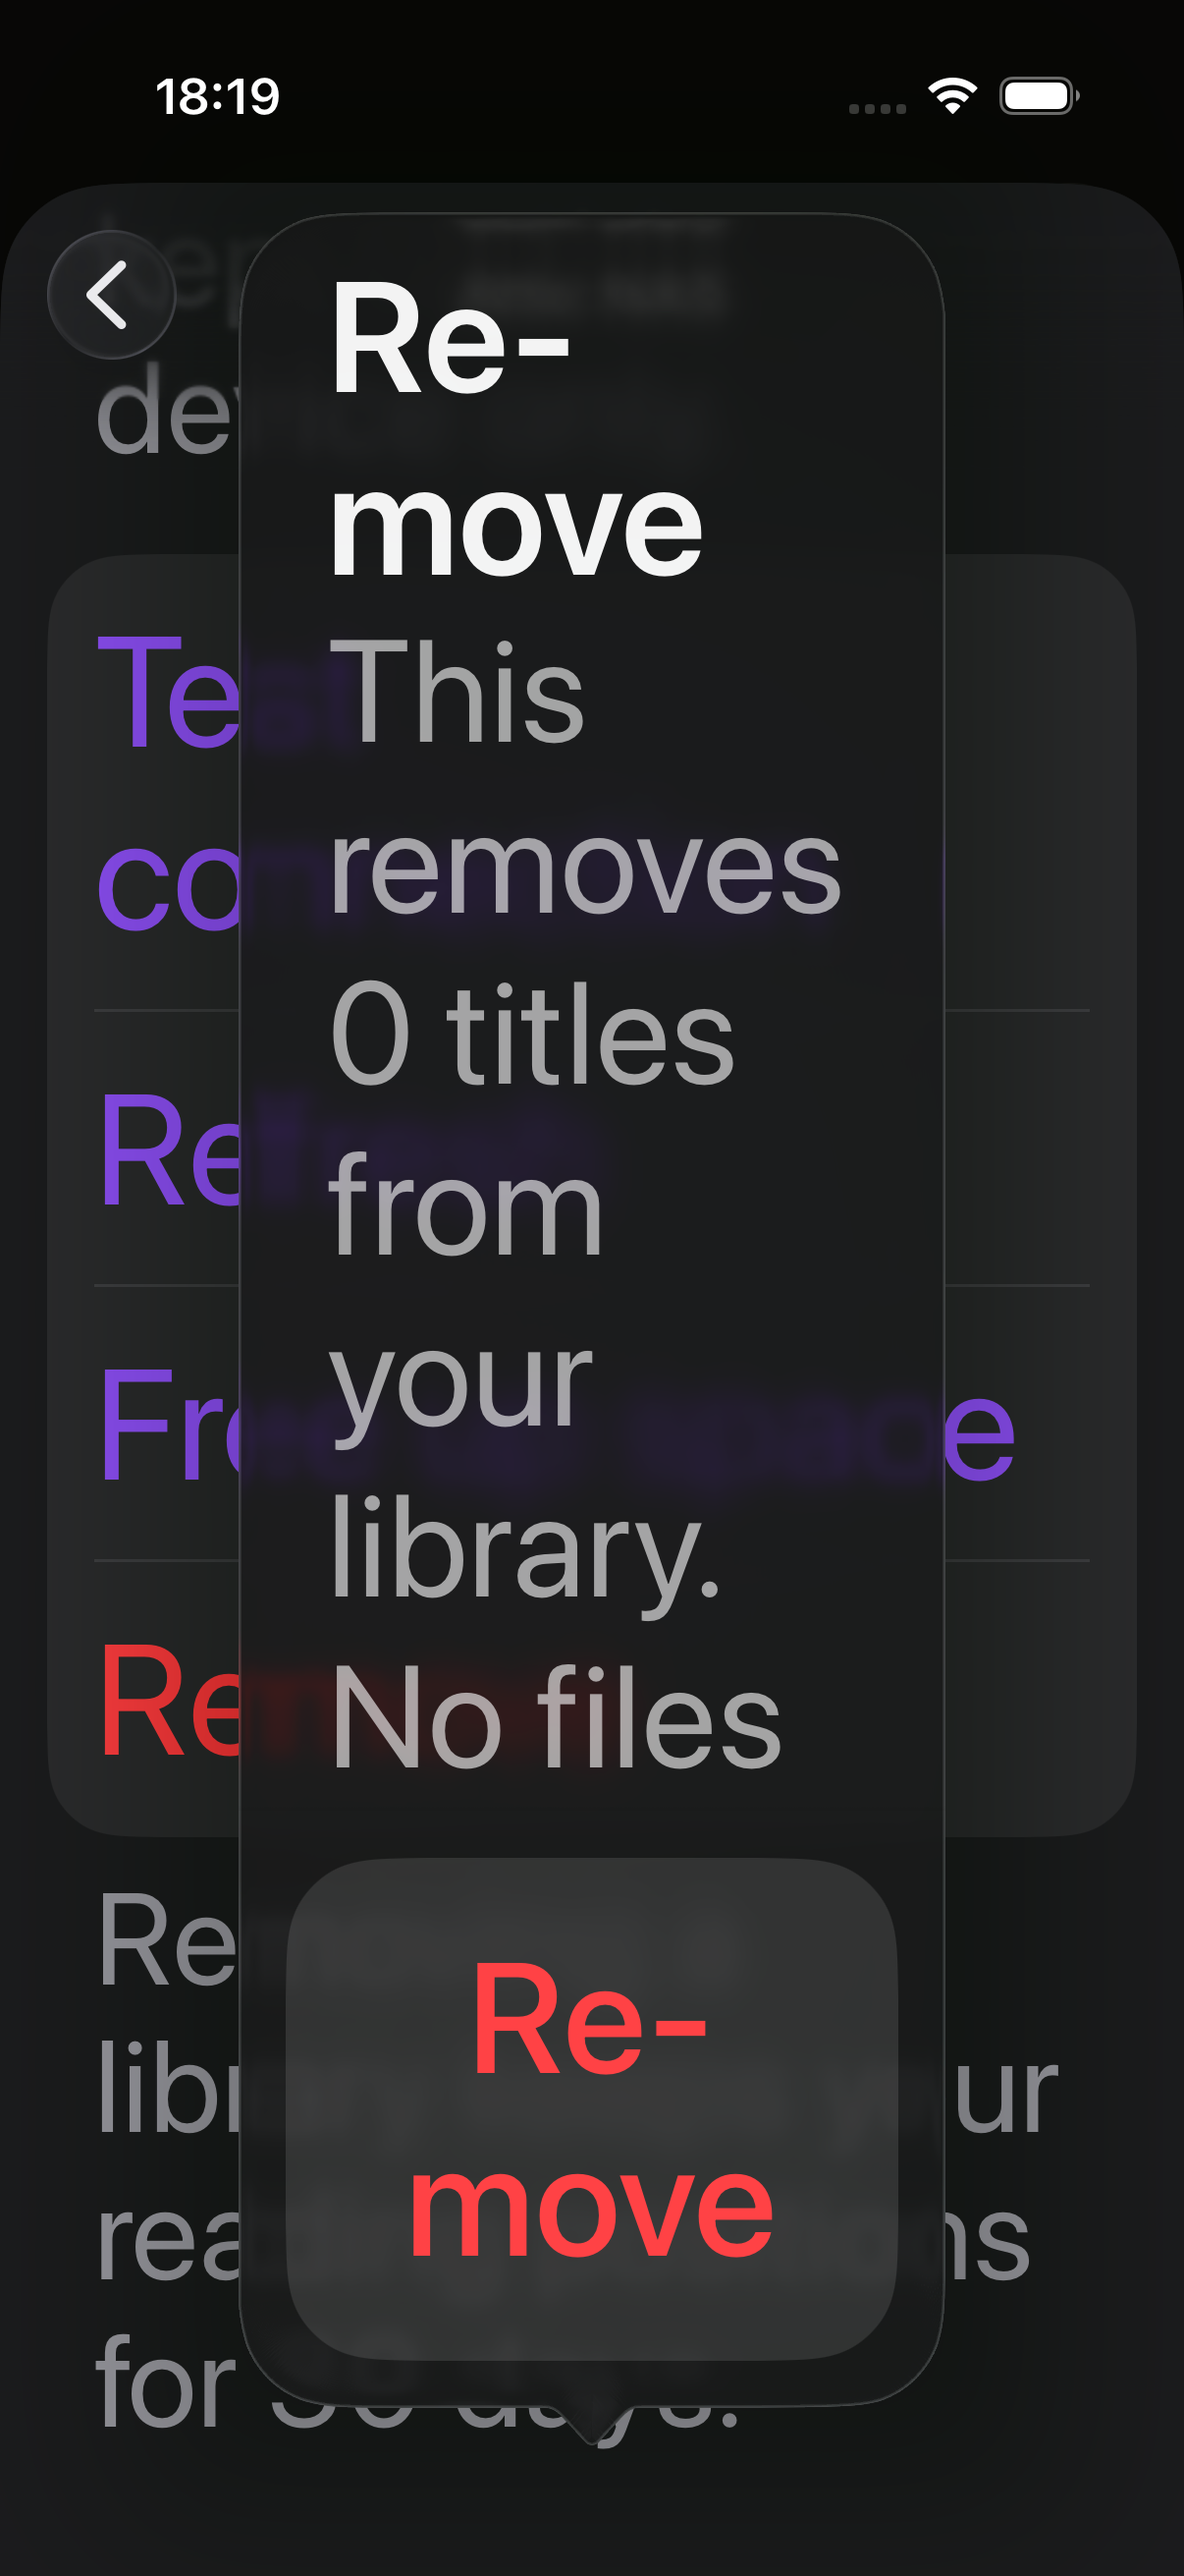
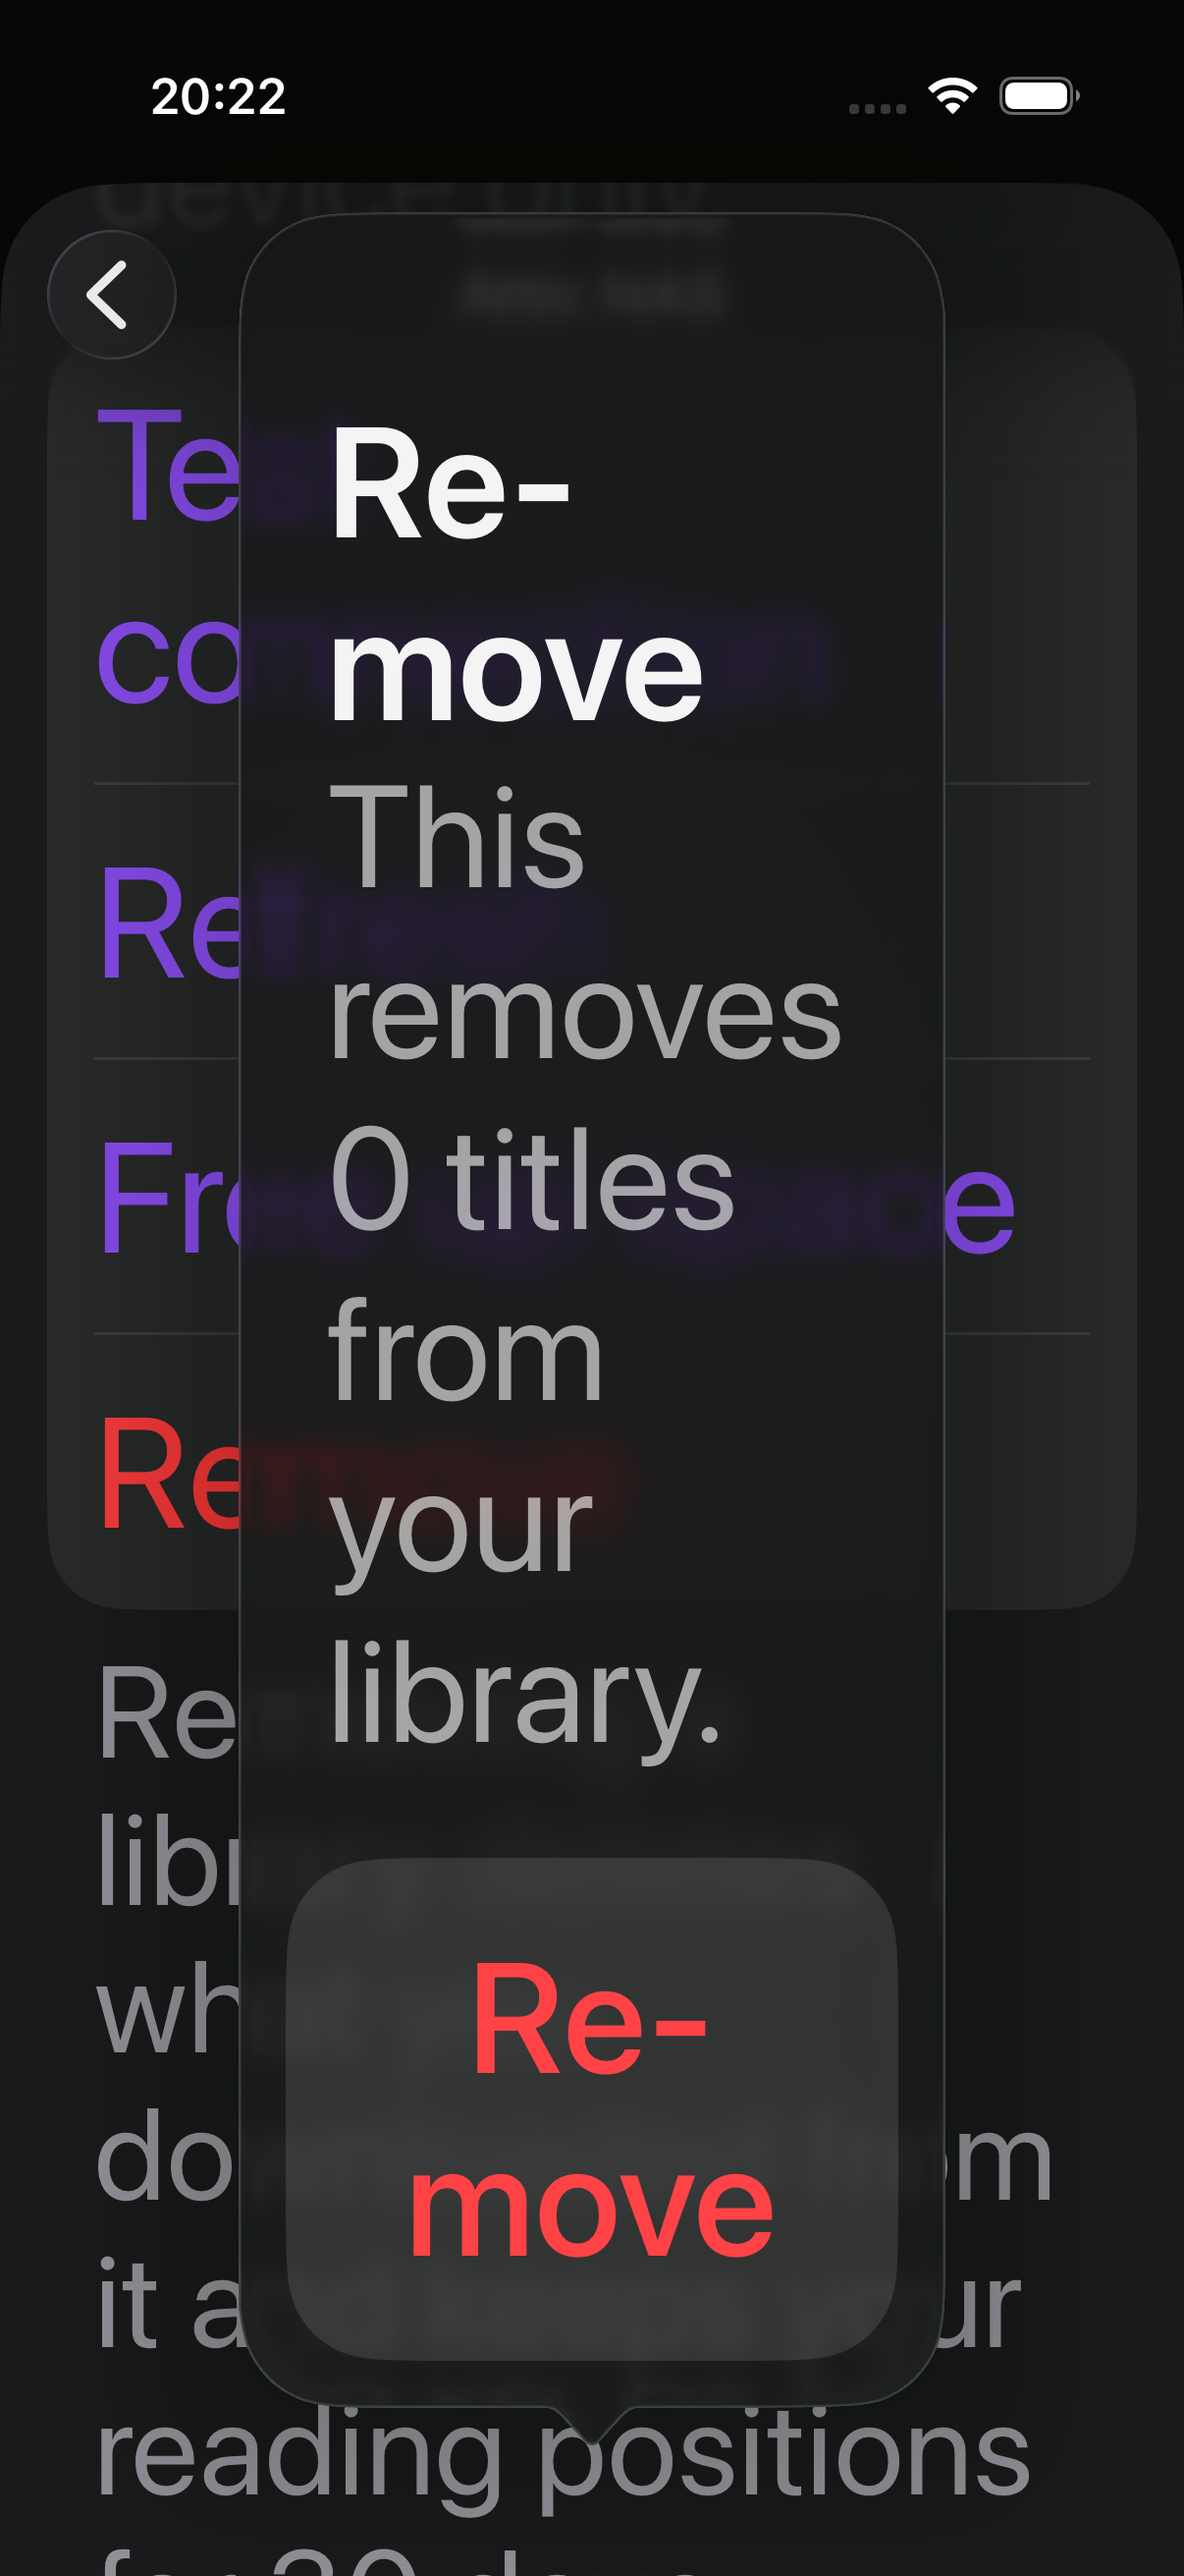
docs(docs): the removal frames retaken with the body that says what goes; android's is a rendering

diff --git a/docs/designs/screenshots/source-lifecycle-2026-09-05/README.md b/docs/designs/screenshots/source-lifecycle-2026-09-05/README.md
@@ -147,6 +147,46 @@ with 400 MB of them it says the opposite of what the button then does. The count
 space freed are stated nowhere before the tap. A destructive action described as harmless is worse
 than a truncated one, and it is recorded here so the body is rewritten once, with the bytes in it.
 
+### Rewritten the same evening: the body says what goes
+
+The six `ios-settings-source-remove*` frames are the **second retake**, shot after the body was
+rewritten. One mirrored rule — `SourceRemovalWording`, in `StoryArcCore` and `:core:model` —
+picks one of two one-sentence bodies from the same `SourceDiagnosis` the *Downloaded* row is
+drawn from: *This removes 3 titles from your library.* when nothing is on disk, and *This
+removes 3 titles and 2 downloads (400 MB).* when something is, the bytes through the same helper
+as the row. Both list dialogs ask the same rule of the same diagnosis. The footer now carries
+both standing facts — *Removing a library deletes what you downloaded from it and keeps your
+reading positions for 30 days.* — and Android has the footer too.
+
+**What the frames show.** At the default size, light and dark, the dialog is the one sentence
+and the footer is readable under *Remove* beneath it. **At `AccessibilityXXXL` the whole
+sentence fits**: six lines — *This / removes / 0 titles / from / your / library.* — and nothing
+is cut, where the previous retake stopped at *"No files"*. The `-scrolled` twins are still
+byte-identical to their originals (`md5` checked), which is the same non-scrolling dialog and
+no longer a finding, because nothing is left off-screen to scroll to. The title and the button
+still hyphenate to *Re-move* at that size, as before.
+
+**What the frames cannot show.** The download sentence. Every source on this simulator holds
+no downloads, so the dialog can only ever take the titles-only branch here;
+`SourceRemovalWordingTests` (six cases, mutation-proved — the rule changed to `> 1` failed the
+two one-download cases by name) is that branch's proof, on both platforms.
+
+**The Android device frame, and precisely what blocked it.** `Settings > source detail` needs a
+registered source and the corpus gives none, so the attempt was to register an OPDS catalogue
+through the app against `scripts/opds-server.mjs` on `10.0.2.2:4444`. The sheet opened and the
+address field took focus, and then the emulator — `storyarc-j6`, running with `-gpu host` as
+the AVD needs, so this is not the software-GL failure the memory note describes — threw *System
+UI isn't responding*, lost its `input` service while the address was being typed (`cmd: Can't
+find service: input`; the field held `hhttp`), and on the one retry answered the app's own
+launch with *StoryArc isn't responding*. It was not restarted, because another agent may have
+been using it. **`android-settings-source-detail-footer.png` and `-ax.png` are the record instead**:
+`SourceRemovalFooterTest` composes `SourceDetailScreen` under Robolectric in `GraphicsMode.NATIVE`
+at the default and the largest text size and writes both to
+`apps/android/feature/settings/build/reports/storyarc-captures/`; these are those two files,
+copied. They are a rendering of the real composable with the shipped strings, not a device
+frame: no system bars, no real font, no Material You. The footer wraps inside the gutters at
+both sizes and the four-locale fit is asserted by the same suite.
+
 ## Two walks that could not run, and why
 
 **`SweepSourcesTests/testCaptureAwayNotice` skips on this device, honestly.** The library-wide
@@ -171,7 +211,13 @@ does not give — the 17 generated publications carry `origin: EMBEDDED` and bel
 so *Your libraries* is legitimately empty until one is added.
 
 **A source holding a finished download**, on either platform, so *Free up space* is offered
-against a non-zero figure rather than against `0 bytes`.
+against a non-zero figure rather than against `0 bytes` — and so the removal confirmation's
+download sentence, *This removes N titles and N downloads (size).*, is photographed rather than
+only asserted.
+
+**The Android device frame for §4.6**, once the emulator is healthy: the footer under *Remove*
+on the source detail screen, and the confirmation it raises. The Robolectric renderings above
+stand in until then.
 
 ## How to retake them
 
@@ -180,6 +226,8 @@ O=docs/designs/screenshots/source-lifecycle-2026-09-05
 for appearance in light dark; do
   for walk in SweepSettingsTests/testCaptureSettingsSourceDetail \
               SweepSettingsTests/testCaptureSettingsSourceDetailAtLargestText \
+              SweepSettingsTests/testCaptureSourceRemovalConfirmation \
[1 lines of base64/hex data omitted]
               SweepSourcesTests/testCaptureUnreachableSourceDetail; do
     node scripts/capture-ios.mjs --out $O --only "$walk" --appearance $appearance
   done

diff --git a/docs/openspec/changes/source-lifecycle/tasks.md b/docs/openspec/changes/source-lifecycle/tasks.md
@@ -16,6 +16,24 @@ is not archivable yet.
 - [x] 1.3 Secrets in the platform secure store: `SecItem` on iOS, an Android Keystore AES-256-GCM key on Android, one entry per source, the registry holding only an opaque reference — verified by the credential-store tests on each platform
 - [x] 1.4 Removal deletes the stored secret first and unconditionally, by the reference the registry holds, then the downloads — verified by `SourceRemoval` tests on both platforms
 - [x] 1.5 Removal states how many titles it removes and that reading positions are kept for 30 days, before asking — verified by the confirmation strings in both `Localizable.xcstrings` and the Android string resources
+      **Corrected on 2026-09-05, because the statement was false for any source holding a
+      download.** The body read *"No files on your device are deleted, and nothing was
+      downloaded"* whatever the source held, while both apps delete the downloads first
+      (`StoryArcAppActions.removeSource`, `SettingsHost`'s `REMOVE`), and the scenario's "how
+      many downloaded files and how much disk space will be freed" was stated nowhere. One
+      mirrored rule now picks the sentence — `SourceRemovalWording` in `StoryArcCore` and
+      `:core:model`, six cases each, mutation-proved — from the same `SourceDiagnosis` the
+      detail screen draws its *Downloaded* row from: *This removes 3 titles from your library.*
+      when nothing is on disk, *This removes 3 titles and 2 downloads (400 MB).* when something
+      is, the bytes through the same helper as the row. Both list dialogs (`SourcesSettings`'
+      swipe, `SourcesGroup`'s delete button) ask the same rule of the same diagnosis rather than
+      of a title count alone. Each state is one sentence, because the iOS confirmation at the
+      largest text size holds about seven short lines and does not scroll (4.6). The thirty
+      days and the deletion are the footer under the actions on both platforms now — *Removing
+      a library deletes what you downloaded from it and keeps your reading positions for 30
+      days.* — Android's new and pinned by `SourceRemovalFooterTest`, and on the two list
+      surfaces as a section footer (iOS) and supporting text (Android). The model-layer
+      comments that said "files on disk are never touched" now say whose job the deletion is.
 - [x] 1.6 30-day retention as a tombstone plus `collectingExpiredTombstones(as:retention:)`, the moment passed in so a test advances a clock rather than waiting — verified by the clock-advancing cases in `SourceRegistryTest.kt` and its iOS mirror
 
 ## 2. Connection state, diagnosis and cache — built
@@ -363,6 +381,27 @@ filename so a light and a dark run cannot overwrite each other.
 
       **Still owed:** a source with a non-zero title count — this catalogue holds none, so the
       count reads `0 titles` rather than a real number — and the Android half.
+
+      **Rewritten and retaken the same evening: the body says what goes.** The six iOS frames
+      were shot again after 1.5's correction (each run `1 test case(s): 1 passed, 0 failed, 0
+      skipped`). At the default size the dialog is the one sentence *This removes 0 titles from
+      your library.* with the footer — deletion and thirty days — readable under *Remove*
+      beneath it, light and dark. **At `AccessibilityXXXL` the whole sentence now fits**: six
+      lines, *This / removes / 0 titles / from / your / library.*, nothing cut; the `-scrolled`
+      twins are still byte-identical to their originals, which is fine now that nothing needs
+      to scroll. The download sentence cannot be photographed on this device — its sources hold
+      no downloads — and `SourceRemovalWordingTests` / `SourceRemovalWordingTest` are its proof.
+      **The Android device frame is still not taken, and the block is precise**: the
+      `Settings > source detail` route needs a registered source the corpus does not give, and
+      registering an OPDS catalogue through the app against `scripts/opds-server.mjs` was
+      stopped by the emulator itself — `storyarc-j6`, running with `-gpu host` as it should,
+      threw *System UI isn't responding*, then lost its `input` service mid-typing (the address
+      field received `hhttp`), then *StoryArc isn't responding* on the one retry; it was not
+      restarted because another agent may have been using it. A Robolectric
+      `GraphicsMode.NATIVE` rendering of `SourceDetailScreen` with the
+      footer, at the default and the largest text size, is filed instead as
+      `android-settings-source-detail-footer{,-ax}.png`, written by `SourceRemovalFooterTest`.
+      The box stays `[~]`: four of the eight frames are device frames.
 
 ## 5. The honest limit in the cached indicator
 
